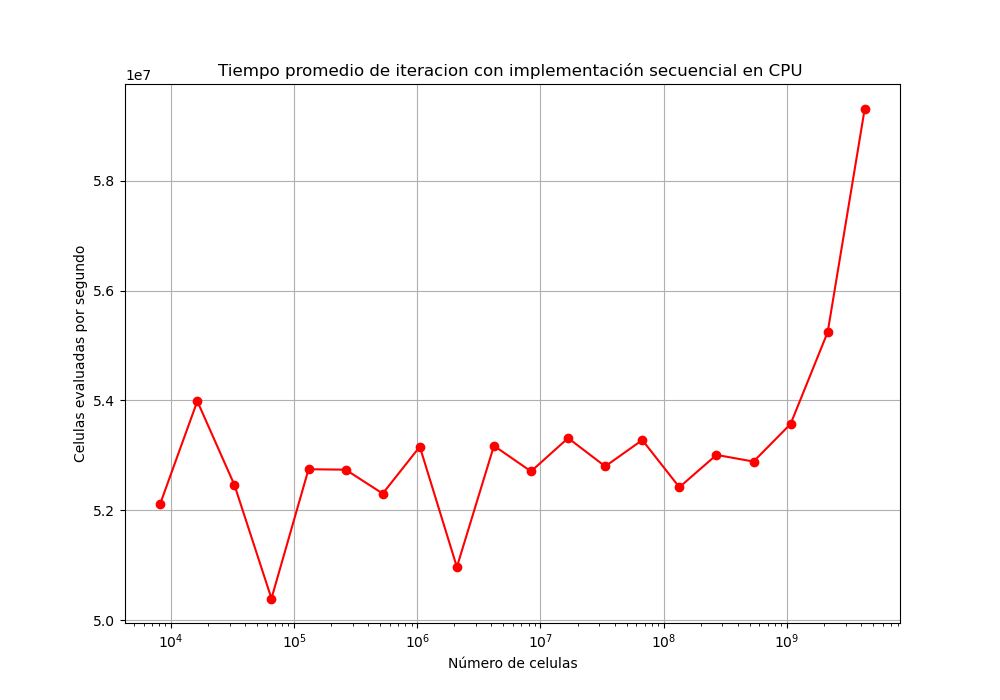
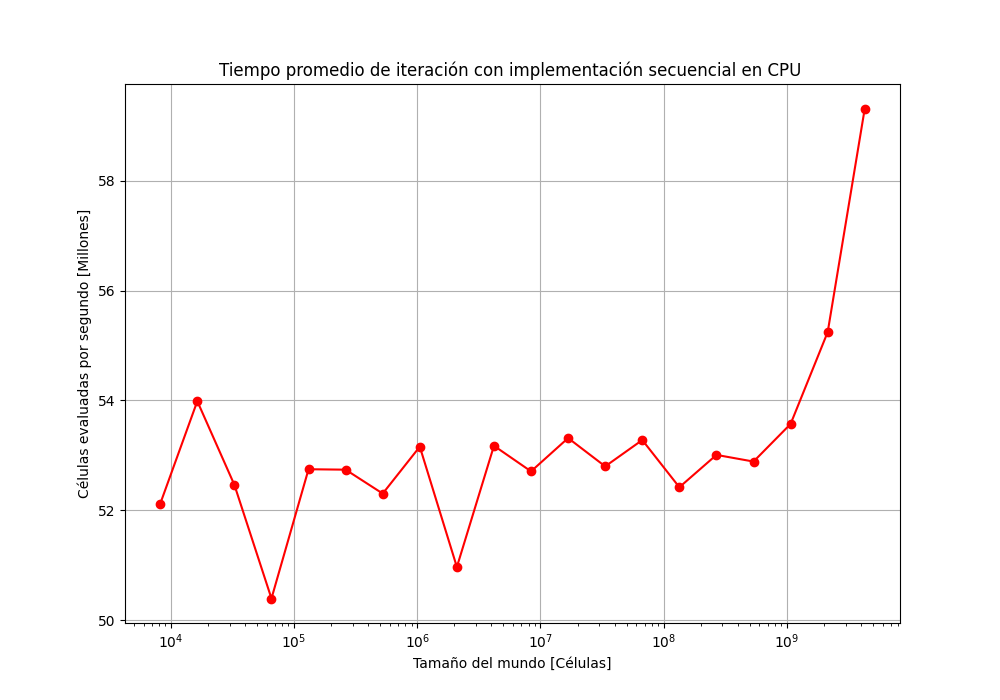
Charts modified

diff --git a/GraphsGenerator/comparison_CPU_CUDA_OpenCL.py b/GraphsGenerator/comparison_CPU_CUDA_OpenCL.py
@@ -8,8 +8,10 @@ path = "Data/"
 
 if __name__ == "__main__":
     size = []
+    size2 = []
     time1 = []
     time2 = []
+    time3 = []
 
     with open(path + 'serial_CPU.csv', mode='r') as csv_file:
         csv_reader = csv.DictReader(csv_file)
@@ -20,33 +22,45 @@ if __name__ == "__main__":
             time1 += [tmp_time / float(row['iter']) ]
             print(size[-1], time1[-1])
 
-    with open(path + 'serial_CPU2.csv', mode='r') as csv_file:
+    with open(path + 'cuda_128tpb.csv', mode='r') as csv_file:
         csv_reader = csv.DictReader(csv_file)
         line_count = 0
         for row in csv_reader:
-            # size = int(row['width']) * int(row['height']) 
+            size2 += [ int(row['width']) * int(row['height']) ]
             tmp_time = float(row['time']) * 0.001
             time2 += [tmp_time / float(row['iter']) ]
+            print(size2[-1], time2[-1])
+
+    with open(path + 'opencl_256tpb.csv', mode='r') as csv_file:
+        csv_reader = csv.DictReader(csv_file)
+        line_count = 0
+        for row in csv_reader:
+            tmp_time = float(row['time']) * 0.001
+            time3 += [tmp_time / float(row['iter']) ]
             print(time2[-1])
 
     n_size = np.array(size)
+    n_size2 = np.array(size2)
     n_time1 = np.array(time1) 
     n_time2 = np.array(time2) 
+    n_time3 = np.array(time3) 
 
     n_eval1 = (n_size / n_time1) / 1000000
-    n_eval2 = (n_size / n_time2) / 1000000
+    n_eval2 = (n_size2 / n_time2) / 1000000
+    n_eval3 = (n_size2 / n_time3) / 1000000
 
     fig, ax = plt.subplots(figsize=(10,7))
     
     ax.set_xscale('log')
 
     line1 = ax.plot(n_size, n_eval1, 'r-o', label='CPU')
-    line2 = ax.plot(n_size, n_eval2, 'b-o', label='CPU con ifs')
+    line2 = ax.plot(n_size2, n_eval2, 'b-o', label='CUDA')
+    line3 = ax.plot(n_size2, n_eval3, 'g-o', label='OpenCL')
 
-    ax.set(xlabel='Tamaño del mundo [Células]', ylabel='Células evaluadas por segundo [Millones]',
-       title='Comparación de tiempo promedio de iteración entre implementaciones en CPU')
+    ax.set(xlabel='Tamaño del mundo [Células]', ylabel='Células evaluadas por segundo [millones]',
+       title='Comparación de tiempo promedio de iteración entre implementaciones serial en CPU\n y paralelas en CUDA y OpenCL')
     ax.grid()
 
     ax.legend()
-    fig.savefig("images/CPU_comparison.png")
+    fig.savefig("images/CPU_CUDA_OpenCL_comparison.png")
     plt.show()

diff --git a/GraphsGenerator/OpenCL_tpb.py b/GraphsGenerator/OpenCL_tpb.py
@@ -77,12 +77,12 @@ if __name__ == "__main__":
     n_time512 = np.array(time512)  
     n_time1024 = np.array(time1024)  
 
-    n_eval32 = n_size / n_time32
-    n_eval64 = n_size / n_time64
-    n_eval128 = n_size / n_time128
-    n_eval256 = n_size / n_time256
-    n_eval512 = n_size / n_time512
-    n_eval1024 = n_size / n_time1024
+    n_eval32 = n_size / n_time32 / 1000000
+    n_eval64 = n_size / n_time64 / 1000000
+    n_eval128 = n_size / n_time128 / 1000000
+    n_eval256 = n_size / n_time256 / 1000000
+    n_eval512 = n_size / n_time512 / 1000000
+    n_eval1024 = n_size / n_time1024 / 1000000
 
     fig, ax = plt.subplots(figsize=(10,7))
     
@@ -95,8 +95,8 @@ if __name__ == "__main__":
     line512 = ax.plot(n_size, n_eval512, 'm-o', label='512 tbp')
     line1024 = ax.plot(n_size, n_eval1024, 'c-o', label='1024 tbp')
 
-    ax.set(xlabel='Número de celulas', ylabel='Celulas evaluadas por segundo (tpb)',
-       title='Evaluacion del programa en GPU con diferentes threads por bloque (tpb) con OpenCL')
+    ax.set(xlabel='Tamaño del mundo [Células]', ylabel='Células evaluadas por segundo [Millones]',
+       title='Evaluación del programa en GPU con diferentes threads por bloque (tpb) con OpenCL')
     ax.grid()
 
     ax.legend()

diff --git a/GraphsGenerator/CUDA_tpb.py b/GraphsGenerator/CUDA_tpb.py
@@ -77,12 +77,12 @@ if __name__ == "__main__":
     n_time512 = np.array(time512)  
     n_time1024 = np.array(time1024)  
 
-    n_eval32 = n_size / n_time32
-    n_eval64 = n_size / n_time64
-    n_eval128 = n_size / n_time128
-    n_eval256 = n_size / n_time256
-    n_eval512 = n_size / n_time512
-    n_eval1024 = n_size / n_time1024
+    n_eval32 = n_size / n_time32 / 1000000
+    n_eval64 = n_size / n_time64 / 1000000
+    n_eval128 = n_size / n_time128 / 1000000
+    n_eval256 = n_size / n_time256 / 1000000
+    n_eval512 = n_size / n_time512 / 1000000
+    n_eval1024 = n_size / n_time1024 / 1000000
 
     fig, ax = plt.subplots(figsize=(10,7))
     
@@ -95,8 +95,8 @@ if __name__ == "__main__":
     line512 = ax.plot(n_size, n_eval512, 'm-o', label='512 tbp')
     line1024 = ax.plot(n_size, n_eval1024, 'c-o', label='1024 tbp')
 
-    ax.set(xlabel='Número de celulas', ylabel='Celulas evaluadas por segundo (tpb)',
-       title='Evaluacion del programa en GPU con diferentes threads por bloque (tpb) con CUDA')
+    ax.set(xlabel='Tamaño del mundo [Células]', ylabel='Células evaluadas por segundo [Millones]',
+       title='Evaluación del programa en GPU con diferentes threads por bloque (tpb) con CUDA')
     ax.grid()
 
     ax.legend()

diff --git a/GraphsGenerator/serial_CPU2.py b/GraphsGenerator/serial_CPU2.py
@@ -24,7 +24,7 @@ if __name__ == "__main__":
     print(n_size)
     print(n_time)
 
-    n_eval = n_size / n_time
+    n_eval = n_size / n_time / 1000000
 
     print(n_eval)
 
@@ -32,8 +32,8 @@ if __name__ == "__main__":
     ax.set_xscale('log')
     ax.plot(n_size, n_eval, 'r-o')
 
-    ax.set(xlabel='Número de celulas', ylabel='Celulas evaluadas por segundo',
-       title='Tiempo promedio de iteracion con implementación secuencial en CPU 2')
+    ax.set(xlabel='Tamaño del mundo [Células]', ylabel='Células evaluadas por segundo [Millones]',
+       title='Tiempo promedio de iteración con implementación secuencial en CPU 2')
     ax.grid()
 
     fig.savefig("images/serial_CPU2.png")

diff --git a/GraphsGenerator/serial_CPU.py b/GraphsGenerator/serial_CPU.py
@@ -24,7 +24,7 @@ if __name__ == "__main__":
     print(n_size)
     print(n_time)
 
-    n_eval = n_size / n_time
+    n_eval = n_size / n_time / 1000000
 
     print(n_eval)
 
@@ -32,8 +32,8 @@ if __name__ == "__main__":
     ax.set_xscale('log')
     ax.plot(n_size, n_eval, 'r-o')
 
-    ax.set(xlabel='Número de celulas', ylabel='Celulas evaluadas por segundo',
-       title='Tiempo promedio de iteracion con implementación secuencial en CPU ')
+    ax.set(xlabel='Tamaño del mundo [Células]', ylabel='Células evaluadas por segundo [Millones]',
+       title='Tiempo promedio de iteración con implementación secuencial en CPU ')
     ax.grid()
 
     fig.savefig("images/serial_CPU.png")
